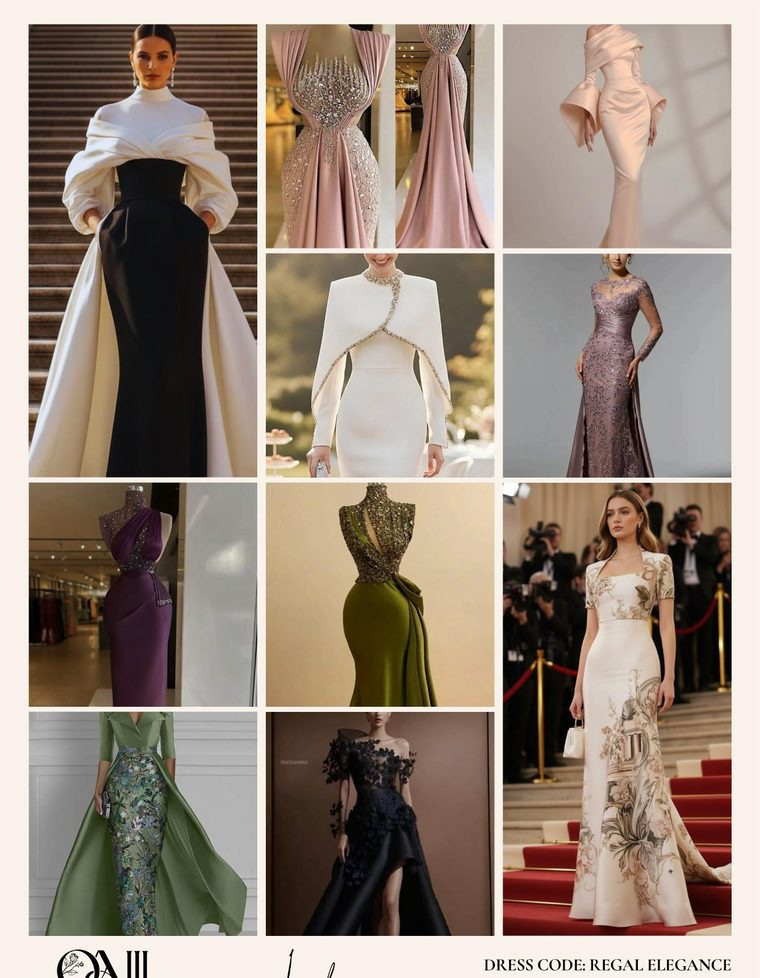
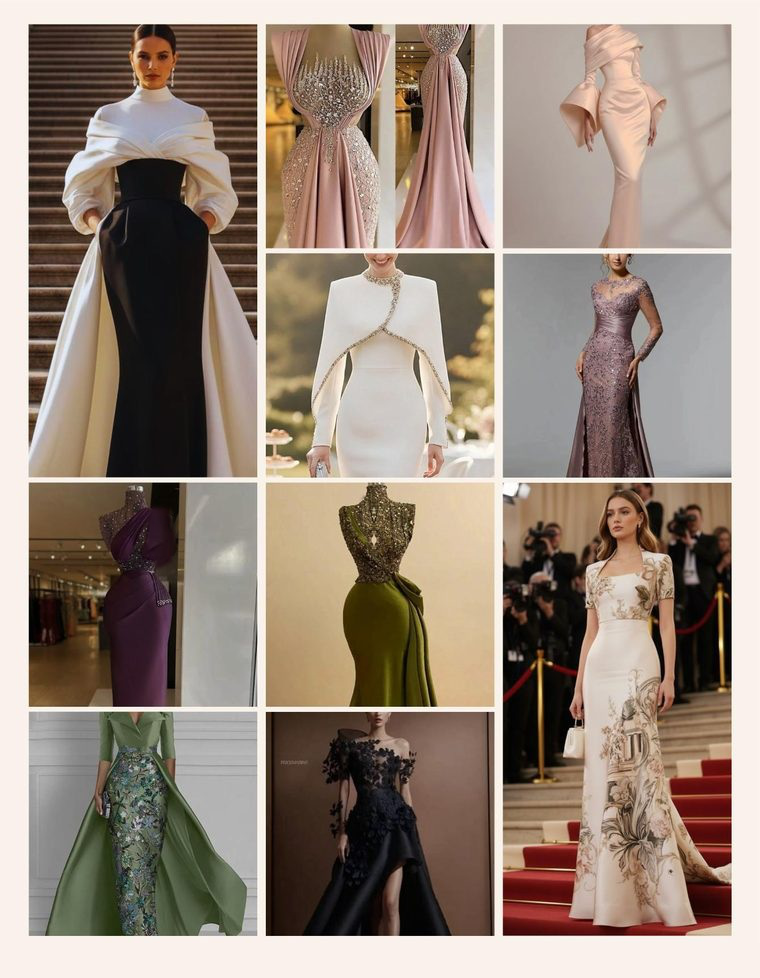
Remove cut lettering and cover exposed skin on the moodboards
Reads from assets/source/ and writes assets/, so re-running does not
compound and the untouched originals stay available.

Cut lettering. Both boards were cropped out of a larger layout and the
crop went through a line of type: the gentlemen page carried the tail of
'40', a script initial and 'DETAILING, UNFORGETTABLE STYLE' across the
top, and the ladies page carried a monogram and 'DRESS CODE: REGAL
ELEGANCE' across the bottom. Only the first was pointed out; the second
is the same defect so both are cleared. Both bands took two passes to
get right — the type's ascenders and descenders reach further than its
body, and stopping at the body left a row of faint ticks behind. The
fill is sampled from a margin point rather than a row near the band,
because on the ladies page every nearby row is either inside a photo
tile, which paints the band brown, or inside the type itself.

Skin. The olive gown's keyhole slit and the purple mannequin's bare
shoulder are covered by cloning fabric from elsewhere in the same
photograph, which is what was asked for and reads as garment rather than
as censorship.

Two mistakes worth recording, both caught by looking at the output:

  · the first source rectangle for the black gown was its own sheer
    bodice, which shows skin through it, so the tiling spread skin
    across the neckline. There is now an exact guard: a source may not
    overlap any region being covered. It is exact rather than a colour
[…]

diff --git a/scripts/pdf/retouch-moodboards.py b/scripts/pdf/retouch-moodboards.py
@@ -1,0 +1,239 @@
+#!/usr/bin/env python3
+"""
+Prepares the moodboard pages for print — npm run pdf:retouch
+
+Always reads from assets/source/ and writes assets/, so it is idempotent:
+running it twice gives the same result rather than compounding, and the
+untouched originals stay available.
+
+Two jobs.
+
+── 1. Cut lettering ────────────────────────────────────────────────────────
+Both moodboards were cropped out of a larger layout, and the crop clipped
+through a line of type. The gentlemen page carries the tail of "40", a script
+initial and "DETAILING, UNFORGETTABLE STYLE" across its top; the ladies page
+carries a monogram and "DRESS CODE: REGAL ELEGANCE" across its bottom. Half a
+letterform reads as damage, so those bands are painted out in the page cream
+sampled from the image itself.
+
+── 2. Skin coverage ────────────────────────────────────────────────────────
+Some of the gowns show more skin than the couple want in a guest guide. Each
+region is covered by cloning fabric that is already in the same photograph —
+the requested "repeat the same pattern" — rather than by blurring or by a flat
+patch, both of which read as censorship.
+
+The method per region: take a source rectangle of real fabric, tile it, then
+composite it through a feathered mask so the edges dissolve into the
+surrounding garment. No brightness matching — see cover_region for why that
+was tried and removed.
+
+These print about 70pt wide, so the eye never resolves the detail; the aim is
+that the silhouette reads as covered, not that it survives a crop to full
+screen.
+
+What this technique can and cannot do is the important part. It works when a
+small area is ringed by matching texture: the olive gown's keyhole slit and
+the purple mannequin's bare shoulder both close cleanly. It cannot invent a
+garment. The black gown is off-shoulder over a sheer bodice with the model's
+head directly above, and every attempt read as a smudge over her rather than
+as fabric — so it is left alone and flagged rather than shipped damaged.
+"""
+
+import pathlib
+import numpy as np
+from PIL import Image, ImageDraw, ImageFilter
+
+HERE = pathlib.Path(__file__).resolve().parent
+SRC = HERE / "assets" / "source"
+OUT = HERE / "assets"
+
+# ── Cut lettering ───────────────────────────────────────────────────────────
+# (file, band to clear, point to sample the page colour from)
+#
+# The sample is a POINT in the page margin rather than a row near the band.
+# A row is fragile: on the ladies page every row close to the type is either
+# inside a photo tile — which paints the band brown — or inside the type
+# itself. (5, 500) is the left margin of both pages and is flat page cream.
+LETTERING = [
+    # Top of the gentlemen page. The body of the type ends at y=25, but the
+    # descenders of the script initial reach to y=32, and stopping at 27 left
+    # them behind as two dark ticks. The photo grid does not start until y=39.
+    ("moodboard-gentlemen.png", (0, 0, 760, 34), (5, 500)),
+    # Bottom of the ladies page: monogram and "DRESS CODE: REGAL ELEGANCE".
+    # The photo tiles end at y=935 and the tallest ascenders of the type reach
+    # up to y=945, so the band starts at 943: high enough to take the ascender
+    # tips, which otherwise survive as a row of faint ticks, and low enough not
+    # to clip the bottom off the gowns. The sample row must likewise sit in the
+    # clean gap at 936..942 — sampling inside a tile picks up the photograph
+    # and paints the band brown.
+    ("moodboard-ladies.png", (0, 943, 760, 978), (5, 500)),
+]
+
+
+def clear_band(im, box, sample_at):
+    """Paint a band with the page colour, sampled from a clean margin point."""
+    a = np.asarray(im).astype(int)
+    sx, sy = sample_at
+    # Median of a small square, so one stray pixel cannot set the colour.
+    patch = a[sy - 3:sy + 4, sx - 3:sx + 4].reshape(-1, 3)
+    colour = tuple(int(v) for v in np.median(patch, axis=0))
+    ImageDraw.Draw(im).rectangle(box, fill=colour)
+    return colour
+
+
+# ── Skin coverage ───────────────────────────────────────────────────────────
+#
+# region  : polygon over the skin, in source pixels
+# source  : rectangle of fabric to clone from
+# feather : blur radius on the mask edge, in pixels
+#
+# Coordinates were read off a gridded overlay of each tile, not estimated.
+COVER = {
+    "moodboard-ladies.png": [
+        dict(
+            name="olive keyhole",
+            # A narrow diagonal slit through the beaded bodice.
+            region=[(363, 497), (375, 497), (383, 547), (373, 554), (361, 522)],
+            source=(384, 496, 406, 556),   # beading immediately right of the slit
+            feather=1.6,
+        ),
+        dict(
+            name="purple bare shoulder",
+            # The mannequin's uncovered side. The right edge is held just
+            # inside the mannequin's silhouette — running past it puts fabric
+            # on the shop background and destroys the shape.
+            region=[(151, 507), (168, 508), (174, 518), (175, 542),
+                    (170, 562), (156, 569), (149, 546), (149, 522)],
+            source=(96, 588, 142, 660),    # plain purple skirt below the belt
+            feather=2.0,
+        ),
+        # ── The black gown is deliberately NOT retouched ────────────────
+        #
+        # It was attempted three times and abandoned. The gown is off-shoulder
+        # over a sheer illusion bodice, so there is no fabric anywhere in the
+        # photograph that can plausibly cover the shoulders, and the model's
+        # head sits directly above the bare neck — every patch reads as a
+        # smudge over her rather than as a garment. The thigh slit has the same
+        # problem from the other end.
+        #
+        # Cloning works when a small area is ringed by matching texture, as
+        # with the olive keyhole. It cannot invent a neckline. Covering this
+        # one means a different photograph, which is the couple's call and not
+        # something to do silently.
+    ]
+}
+
+
+def assert_source_is_fabric(specs, spec, size):
+    """
+    Refuse to clone from anywhere that is itself skin.
+
+    The first attempt sampled the black gown's bodice, which is sheer and shows
+    skin through it. The tiling then reproduced that skin across the neckline —
+    covering the gown in exactly what it was meant to remove.
+
+    The test is exact rather than a colour heuristic. A colour test cannot do
+    this job here: these gowns are beaded in gold and bronze, which is warm and
+    mid-toned and indistinguishable from skin by RGB alone. An earlier version
+    tried and rejected the olive gown's own sequins as 53% skin.
+
+    But we already know precisely where the skin is — it is the set of regions
+    being covered. So a source rectangle is valid exactly when it overlaps none
+    of them.
+    """
+    W, H = size
+    skin = Image.new("L", (W, H), 0)
+    d = ImageDraw.Draw(skin)
+    for other in specs:
+        d.polygon(other["region"], fill=255)
+
+    sx0, sy0, sx1, sy1 = spec["source"]
+    overlap = np.asarray(skin)[sy0:sy1, sx0:sx1] > 0
+    if overlap.any():
+        raise SystemExit(
+            f"{spec['name']}: source rectangle {spec['source']} overlaps a "
+            f"region that is itself being covered ({overlap.mean():.0%} of it). "
+            "Cloning it would spread skin rather than cover it. Move the "
+            "source onto actual fabric.")
+
+
+def mirror_tile(patch, w, h):
+    """
+    Tile `patch` to w x h, mirroring each repeat so joins do not show.
+
+    Mirroring is a last resort: it makes a butterfly symmetry that the eye
+    picks up. Source rectangles are chosen large enough that most regions need
+    no repeat at all, and this then just crops.
+    """
+    ph, pw = patch.shape[:2]
+    cols = -(-w // pw) + 1
+    rows = -(-h // ph) + 1
+    strips = []
+    for r in range(rows):
+        row = []
+        for cidx in range(cols):
+            p = patch
+            if cidx % 2:
+                p = p[:, ::-1]
+            if r % 2:
+                p = p[::-1, :]
+            row.append(p)
+        strips.append(np.concatenate(row, axis=1))
+    return np.concatenate(strips, axis=0)[:h, :w]
+
+
+def cover_region(im, spec, specs):
+    """Clone fabric over one region, through a feathered mask."""
+    a = np.asarray(im).astype(np.float64)
+    H, W = a.shape[:2]
+
+    mask = Image.new("L", (W, H), 0)
+    ImageDraw.Draw(mask).polygon(spec["region"], fill=255)
+    mask = mask.filter(ImageFilter.GaussianBlur(spec["feather"]))
+    m = (np.asarray(mask).astype(np.float64) / 255.0)[:, :, None]
+
+    assert_source_is_fabric(specs, spec, (W, H))
+
+    sx0, sy0, sx1, sy1 = spec["source"]
+    patch = a[sy0:sy1, sx0:sx1]
+    if patch.size == 0:
+        raise SystemExit(f"empty source rectangle for {spec['name']}")
+
+    fill = mirror_tile(patch, W, H)
+
+    # Deliberately NO brightness matching.
+    #
+    # An earlier version scaled the patch towards the mean of the pixels it was
+    # replacing. That is backwards: the pixels being replaced are the skin, so
+    # matching them brightened the black appliqué to skin tone and turned the
+    # whole bodice into a brown smear. The source is drawn from the same
+    # photograph under the same light, so it already belongs there.
+
+    return Image.fromarray(np.clip(a * (1 - m) + fill * m, 0, 255).astype(np.uint8))
+
+
+def main():
+    if not SRC.exists():
+        raise SystemExit(f"No pristine originals at {SRC}")
+
+    print("\nMoodboard retouch")
+    for f in ("moodboard-ladies.png", "moodboard-gentlemen.png"):
+        im = Image.open(SRC / f).convert("RGB")
+        print(f"\n  {f}  {im.width}x{im.height}")
+
+        for name, box, at in LETTERING:
+            if name != f:
+                continue
+            colour = clear_band(im, box, at)
+            print(f"    cleared cut lettering  y={box[1]}..{box[3]}  fill=rgb{colour}")
+
+        specs = COVER.get(f, [])
+        for spec in specs:
+            im = cover_region(im, spec, specs)
+            print(f"    covered  {spec['name']}")
+
+        im.save(OUT / f)
+    print(f"\n  Written to {OUT}\n  Rebuild the guides: npm run pdf:guides\n")
+
+
+main()
